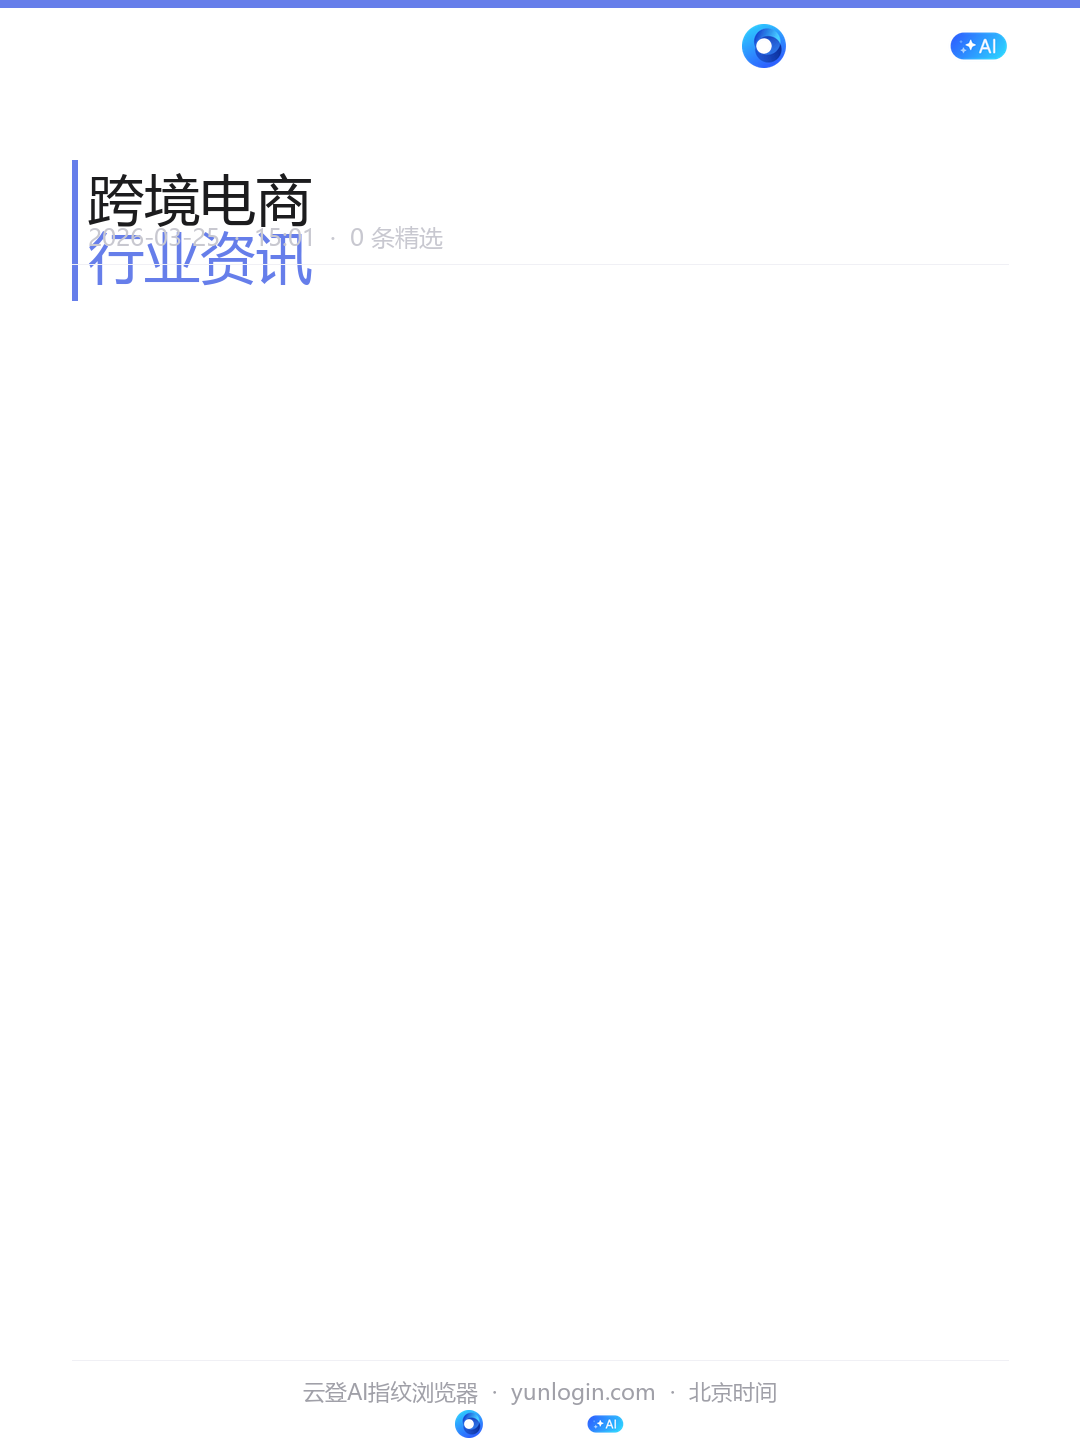
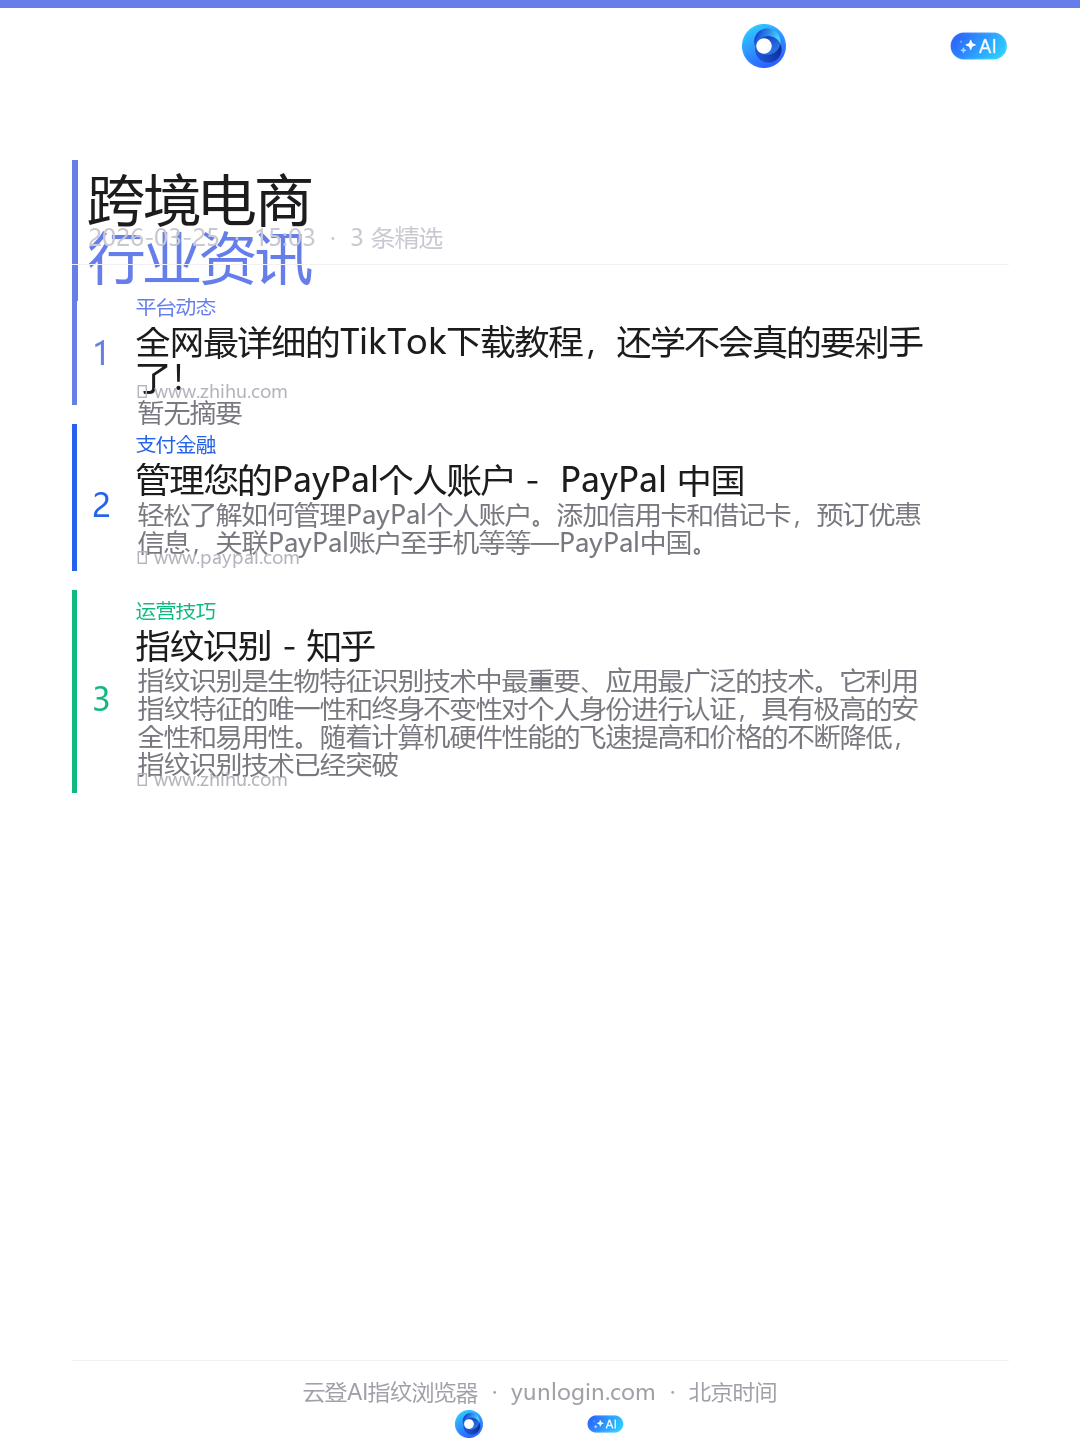
update: 行业简报 2026-03-25 15:03 - v7并发抓取

diff --git a/资讯/index.html b/资讯/index.html
@@ -82,7 +82,7 @@ a{color:#667eea;text-decoration:none}
 <div class="hdr">
   <h1>📰 行业资讯</h1>
   <div>
-    <span class="t">🕒 2026-03-25 15:01 · 北京时间</span>
+    <span class="t">🕒 2026-03-25 15:03 · 北京时间</span>
     <a href="../index.html">← 返回首页</a>
   </div>
 </div>
@@ -102,16 +102,16 @@ a{color:#667eea;text-decoration:none}
     <div class="bc">
       <div class="bh">
         <div class="bt">🖼 对外简报 · 朋友圈素材 <span class="badge badge-grn">15:00</span></div>
-        <div class="bm">更新于 2026-03-25 15:01 · 无来源链接</div>
+        <div class="bm">更新于 2026-03-25 15:03 · 无来源链接</div>
       </div>
-      <ul class="nl"></ul>
+      <ul class="nl"><li class="ni"><div class="nn">1</div><div class="nc"><div class="nm"><span class="tag tagB">平台动态</span></div><div class="nt"><a href="https://www.zhihu.com/tardis/zm/art/564800149" target="_blank">全网最详细的TikTok下载教程，还学不会真的要剁手了！</a></div><div class="nd">暂无摘要</div></div></li></ul>
     </div>
     <div class="bc">
       <div class="bh">
-        <div class="bt">📊 对内全模块 <span class="badge">0条</span></div>
-        <div class="bm">更新于 2026-03-25 15:01 · 含来源链接</div>
+        <div class="bt">📊 对内全模块 <span class="badge">3条</span></div>
+        <div class="bm">更新于 2026-03-25 15:03 · 含来源链接</div>
       </div>
-      <ul class="nl"></ul>
+      <ul class="nl"><li class="ni"><div class="nn">1</div><div class="nc"><div class="nm"><span class="tag tagB">平台动态</span></div><div class="nt"><a href="https://www.zhihu.com/tardis/zm/art/564800149" target="_blank">全网最详细的TikTok下载教程，还学不会真的要剁手了！</a></div><div class="nd">暂无摘要</div><div class="ns">&#128214; <a href="https://www.zhihu.com/tardis/zm/art/564800149" target="_blank">www.zhihu.com</a> <span class="ptime">近日</span> <a class="nlk" href="https://www.zhihu.com/tardis/zm/art/564800149" target="_blank">&#8594;</a></div></div></li><li class="ni"><div class="nn">2</div><div class="nc"><div class="nm"><span class="tag tagG">支付金融</span></div><div class="nt"><a href="https://www.paypal.com/c2/webapps/mpp/manage-my-paypal-account" target="_blank">管理您的PayPal个人账户 -  PayPal 中国</a></div><div class="nd">轻松了解如何管理PayPal个人账户。添加信用卡和借记卡，预订优惠信息，关联PayPal账户至手机等等—PayPal中国。</div><div class="ns">&#128214; <a href="https://www.paypal.com/c2/webapps/mpp/manage-my-paypal-account" target="_blank">www.paypal.com</a> <span class="ptime">近日</span> <a class="nlk" href="https://www.paypal.com/c2/webapps/mpp/manage-my-paypal-account" target="_blank">&#8594;</a></div></div></li><li class="ni"><div class="nn">3</div><div class="nc"><div class="nm"><span class="tag tagGr">运营技巧</span></div><div class="nt"><a href="https://www.zhihu.com/topic/19635708/intro" target="_blank">指纹识别 - 知乎</a></div><div class="nd">指纹识别是生物特征识别技术中最重要、应用最广泛的技术。它利用指纹特征的唯一性和终身不变性对个人身份进行认证，具有极高的安全性和易用性。随着计算机硬件性能的飞速提高和价格的不断降低，指纹识别技术已经突破司法、刑侦领域进入民用领域，并取得了快速的发展。</div><div class="ns">&#128214; <a href="https://www.zhihu.com/topic/19635708/intro" target="_blank">www.zhihu.com</a> <span class="ptime">近日</span> <a class="nlk" href="https://www.zhihu.com/topic/19635708/intro" target="_blank">&#8594;</a></div></div></li></ul>
     </div>
   </div>
 
@@ -120,7 +120,7 @@ a{color:#667eea;text-decoration:none}
       <div class="bh">
         <div class="bt">🕐 今日历史版本 <span class="badge">2026-03-25</span></div>
       </div>
-      <div id="tlWrap"><table class="tl"><thead><tr><th>时间</th><th>条数</th><th>首条</th><th>标签</th><th></th></tr></thead><tbody><tr><td class="tc">15:00</td><td class="ti">0条</td><td class="ti">无内容</td><td></td><td><button class="bv bcur" onclick="showSnap('15')">当前</button></td></tr><tr><td class="tc">14:00</td><td class="ti">0条</td><td class="ti">无内容</td><td></td><td><button class="bv" onclick="showSnap('14')">查看</button></td></tr></tbody></table></div>
+      <div id="tlWrap"><table class="tl"><thead><tr><th>时间</th><th>条数</th><th>首条</th><th>标签</th><th></th></tr></thead><tbody><tr><td class="tc">15:00</td><td class="ti">4条</td><td class="ti">全网最详细的TikTok下载教程，还学不会真的要剁手了！...</td><td><span class="mt">平台动态</span> <span class="mt">平台动态</span> <span class="mt">支付金融</span> <span class="mt">运营技巧</span></td><td><button class="bv bcur" onclick="showSnap('15')">当前</button></td></tr><tr><td class="tc">14:00</td><td class="ti">7条</td><td class="ti">亚马逊运营全流程（吐血干货分享）...</td><td><span class="mt">平台动态</span> <span class="mt">平台动态</span> <span class="mt">平台动态</span> <span class="mt">平台动态</span></td><td><button class="bv" onclick="showSnap('14')">查看</button></td></tr></tbody></table></div>
     </div>
   </div>
 </div>
@@ -152,7 +152,7 @@ a{color:#667eea;text-decoration:none}
   </div>
 </div>
 
-<script type="application/json" id="sd">{"2026-03-25": {"14": {"articles": [], "updated": "2026-03-25 14:54"}, "15": {"articles": [], "updated": "2026-03-25 15:01"}}}</script>
+<script type="application/json" id="sd">{"2026-03-25": {"14": {"articles": [{"title": "亚马逊运营全流程（吐血干货分享）", "desc": "暂无摘要", "url": "https://www.zhihu.com/tardis/sogou/art/435669094", "source": "www.zhihu.com", "date": "2026-03-25", "art_date": null, "tag": "平台动态", "pub_time": "近日", "for_outer": true}, {"title": "如何在国内正常使用tiktok", "desc": "暂无摘要", "url": "https://www.zhihu.com/tardis/bd/art/581566699", "source": "www.zhihu.com", "date": "2026-03-25", "art_date": null, "tag": "平台动态", "pub_time": "近日", "for_outer": true}, {"title": "亚马逊运营全流程（吐血干货分享）", "desc": "暂无摘要", "url": "https://www.zhihu.com/tardis/sogou/art/435669094", "source": "www.zhihu.com", "date": "2026-03-25", "art_date": null, "tag": "平台动态", "pub_time": "近日", "for_outer": true}, {"title": "如何在国内正常使用tiktok", "desc": "暂无摘要", "url": "https://www.zhihu.com/tardis/bd/art/581566699", "source": "www.zhihu.com", "date": "2026-03-25", "art_date": null, "tag": "平台动态", "pub_time": "近日", "for_outer": true}, {"title": "注册：创建PayPal账户 - PayPal中国", "desc": "注册PayPal中国开始网上购物和销售。现在就访问我们的网站，了解PayPal商业账户和个人账户的更多信息！", "url": "https://www.paypal.com/c2/webapps/mpp/account-selection", "source": "www.paypal.com", "date": "2026-03-25", "art_date": null, "tag": "支付金融", "pub_time": "近日", "for_outer": false}, {"title": "PayPal - 申请使用跨境支付服务", "desc": "暂无摘要", "url": "https://www.paypal.cn/portal/account-selection", "source": "www.paypal.cn", "date": "2026-03-25", "art_date": null, "tag": "支付金融", "pub_time": "近日", "for_outer": false}, {"title": "指纹 - 知乎", "desc": "指纹，也叫手印，即是表皮上突起的纹线。由于人的指纹是遗传与环境共同作用产生的，因而指纹人人皆有，却各不相同。由于指纹重复率极小，大约150亿分之一，故其称为“人体身份证”。 指纹是人类手指末端指腹上由凹凸的皮肤所形成的纹路，指纹能使手在接触物件时增加摩擦力，从而更容易发力及抓紧物件，它是人类进化过程式中自然形成的。 伸出手，仔细观察，可以发现小小的指纹也分三种类型：有同心圆或螺旋纹线，看上去像水中", "url": "https://www.zhihu.com/topic/19572024/intro", "source": "www.zhihu.com", "date": "2026-03-25", "art_date": null, "tag": "运营技巧", "pub_time": "近日", "for_outer": false}], "updated": "2026-03-25 14:42"}, "15": {"articles": [{"title": "全网最详细的TikTok下载教程，还学不会真的要剁手了！", "desc": "暂无摘要", "url": "https://www.zhihu.com/tardis/zm/art/564800149", "source": "www.zhihu.com", "date": "2026-03-25", "art_date": null, "tag": "平台动态", "pub_time": "近日", "for_outer": true}, {"title": "全网最详细的TikTok下载教程，还学不会真的要剁手了！", "desc": "暂无摘要", "url": "https://www.zhihu.com/tardis/zm/art/564800149", "source": "www.zhihu.com", "date": "2026-03-25", "art_date": null, "tag": "平台动态", "pub_time": "近日", "for_outer": true}, {"title": "管理您的PayPal个人账户 -  PayPal 中国", "desc": "轻松了解如何管理PayPal个人账户。添加信用卡和借记卡，预订优惠信息，关联PayPal账户至手机等等—PayPal中国。", "url": "https://www.paypal.com/c2/webapps/mpp/manage-my-paypal-account", "source": "www.paypal.com", "date": "2026-03-25", "art_date": null, "tag": "支付金融", "pub_time": "近日", "for_outer": false}, {"title": "指纹识别 - 知乎", "desc": "指纹识别是生物特征识别技术中最重要、应用最广泛的技术。它利用指纹特征的唯一性和终身不变性对个人身份进行认证，具有极高的安全性和易用性。随着计算机硬件性能的飞速提高和价格的不断降低，指纹识别技术已经突破司法、刑侦领域进入民用领域，并取得了快速的发展。", "url": "https://www.zhihu.com/topic/19635708/intro", "source": "www.zhihu.com", "date": "2026-03-25", "art_date": null, "tag": "运营技巧", "pub_time": "近日", "for_outer": false}], "updated": "2026-03-25 15:03"}}}</script>
 <script>
 var SD=JSON.parse(document.getElementById("sd").textContent||"{}");
 

diff --git a/资讯/历史.html b/资讯/历史.html
@@ -85,7 +85,7 @@ a{color:#667eea;text-decoration:none}
       <div class="bt">📁 全部历史记录</div>
       <div class="bm">按日期分组，共保留7天</div>
     </div>
-    <div id="dgWrap"><div class="dg"><div class="dl">2026-03-25 周二</div><table class="tl"><thead><tr><th>时间</th><th>条数</th><th>首条</th><th>标签</th><th></th></tr></thead><tbody><tr><td class="tc">15:00</td><td class="ti">0条</td><td class="ti">无内容</td><td></td><td><button class="bv" onclick="loadSnap('2026-03-25','15')">查看</button></td></tr><tr><td class="tc">14:00</td><td class="ti">0条</td><td class="ti">无内容</td><td></td><td><button class="bv" onclick="loadSnap('2026-03-25','14')">查看</button></td></tr></tbody></table></div></div>
+    <div id="dgWrap"><div class="dg"><div class="dl">2026-03-25 周二</div><table class="tl"><thead><tr><th>时间</th><th>条数</th><th>首条</th><th>标签</th><th></th></tr></thead><tbody><tr><td class="tc">15:00</td><td class="ti">4条</td><td class="ti">全网最详细的TikTok下载教程，还学不会真的要剁手了！...</td><td><span class="mt">平台动态</span> <span class="mt">平台动态</span> <span class="mt">支付金融</span> <span class="mt">运营技巧</span></td><td><button class="bv" onclick="loadSnap('2026-03-25','15')">查看</button></td></tr><tr><td class="tc">14:00</td><td class="ti">7条</td><td class="ti">亚马逊运营全流程（吐血干货分享）...</td><td><span class="mt">平台动态</span> <span class="mt">平台动态</span> <span class="mt">平台动态</span> <span class="mt">平台动态</span></td><td><button class="bv" onclick="loadSnap('2026-03-25','14')">查看</button></td></tr></tbody></table></div></div>
   </div>
 </div>
 
@@ -116,7 +116,7 @@ a{color:#667eea;text-decoration:none}
   </div>
 </div>
 
-<script type="application/json" id="sd">{"2026-03-25": {"14": {"articles": [], "updated": "2026-03-25 14:54"}, "15": {"articles": [], "updated": "2026-03-25 15:01"}}}</script>
+<script type="application/json" id="sd">{"2026-03-25": {"14": {"articles": [{"title": "亚马逊运营全流程（吐血干货分享）", "desc": "暂无摘要", "url": "https://www.zhihu.com/tardis/sogou/art/435669094", "source": "www.zhihu.com", "date": "2026-03-25", "art_date": null, "tag": "平台动态", "pub_time": "近日", "for_outer": true}, {"title": "如何在国内正常使用tiktok", "desc": "暂无摘要", "url": "https://www.zhihu.com/tardis/bd/art/581566699", "source": "www.zhihu.com", "date": "2026-03-25", "art_date": null, "tag": "平台动态", "pub_time": "近日", "for_outer": true}, {"title": "亚马逊运营全流程（吐血干货分享）", "desc": "暂无摘要", "url": "https://www.zhihu.com/tardis/sogou/art/435669094", "source": "www.zhihu.com", "date": "2026-03-25", "art_date": null, "tag": "平台动态", "pub_time": "近日", "for_outer": true}, {"title": "如何在国内正常使用tiktok", "desc": "暂无摘要", "url": "https://www.zhihu.com/tardis/bd/art/581566699", "source": "www.zhihu.com", "date": "2026-03-25", "art_date": null, "tag": "平台动态", "pub_time": "近日", "for_outer": true}, {"title": "注册：创建PayPal账户 - PayPal中国", "desc": "注册PayPal中国开始网上购物和销售。现在就访问我们的网站，了解PayPal商业账户和个人账户的更多信息！", "url": "https://www.paypal.com/c2/webapps/mpp/account-selection", "source": "www.paypal.com", "date": "2026-03-25", "art_date": null, "tag": "支付金融", "pub_time": "近日", "for_outer": false}, {"title": "PayPal - 申请使用跨境支付服务", "desc": "暂无摘要", "url": "https://www.paypal.cn/portal/account-selection", "source": "www.paypal.cn", "date": "2026-03-25", "art_date": null, "tag": "支付金融", "pub_time": "近日", "for_outer": false}, {"title": "指纹 - 知乎", "desc": "指纹，也叫手印，即是表皮上突起的纹线。由于人的指纹是遗传与环境共同作用产生的，因而指纹人人皆有，却各不相同。由于指纹重复率极小，大约150亿分之一，故其称为“人体身份证”。 指纹是人类手指末端指腹上由凹凸的皮肤所形成的纹路，指纹能使手在接触物件时增加摩擦力，从而更容易发力及抓紧物件，它是人类进化过程式中自然形成的。 伸出手，仔细观察，可以发现小小的指纹也分三种类型：有同心圆或螺旋纹线，看上去像水中", "url": "https://www.zhihu.com/topic/19572024/intro", "source": "www.zhihu.com", "date": "2026-03-25", "art_date": null, "tag": "运营技巧", "pub_time": "近日", "for_outer": false}], "updated": "2026-03-25 14:42"}, "15": {"articles": [{"title": "全网最详细的TikTok下载教程，还学不会真的要剁手了！", "desc": "暂无摘要", "url": "https://www.zhihu.com/tardis/zm/art/564800149", "source": "www.zhihu.com", "date": "2026-03-25", "art_date": null, "tag": "平台动态", "pub_time": "近日", "for_outer": true}, {"title": "全网最详细的TikTok下载教程，还学不会真的要剁手了！", "desc": "暂无摘要", "url": "https://www.zhihu.com/tardis/zm/art/564800149", "source": "www.zhihu.com", "date": "2026-03-25", "art_date": null, "tag": "平台动态", "pub_time": "近日", "for_outer": true}, {"title": "管理您的PayPal个人账户 -  PayPal 中国", "desc": "轻松了解如何管理PayPal个人账户。添加信用卡和借记卡，预订优惠信息，关联PayPal账户至手机等等—PayPal中国。", "url": "https://www.paypal.com/c2/webapps/mpp/manage-my-paypal-account", "source": "www.paypal.com", "date": "2026-03-25", "art_date": null, "tag": "支付金融", "pub_time": "近日", "for_outer": false}, {"title": "指纹识别 - 知乎", "desc": "指纹识别是生物特征识别技术中最重要、应用最广泛的技术。它利用指纹特征的唯一性和终身不变性对个人身份进行认证，具有极高的安全性和易用性。随着计算机硬件性能的飞速提高和价格的不断降低，指纹识别技术已经突破司法、刑侦领域进入民用领域，并取得了快速的发展。", "url": "https://www.zhihu.com/topic/19635708/intro", "source": "www.zhihu.com", "date": "2026-03-25", "art_date": null, "tag": "运营技巧", "pub_time": "近日", "for_outer": false}], "updated": "2026-03-25 15:03"}}}</script>
 <script>
 var SD=JSON.parse(document.getElementById("sd").textContent||"{}");
 
